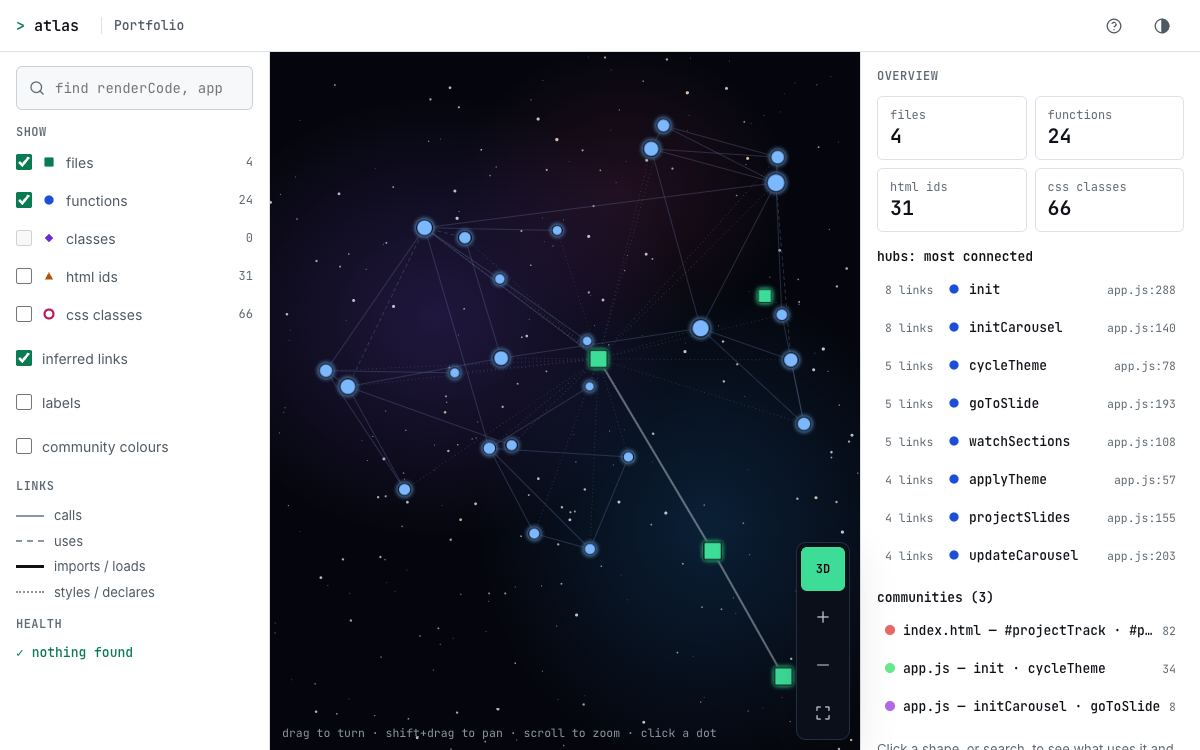
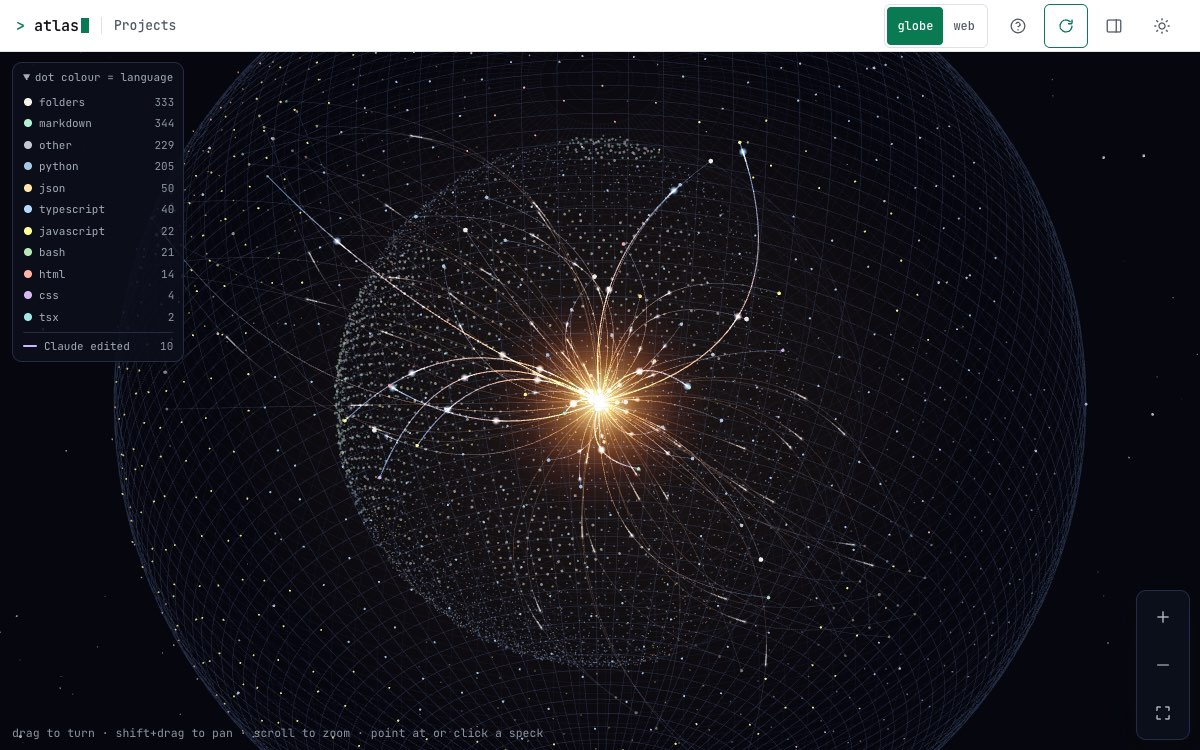
Projects: show today's Atlas in its screenshot
The Atlas card now shows the pastel dust globe with Claude's glowing
core and strands (made from public projects only), with a matching alt
text.

diff --git a/index.html b/index.html
@@ -350,7 +350,7 @@
                   src="assets/images/atlas.jpg"
                   width="1200"
                   height="750"
-                  alt="Atlas code map, an interactive graph of a project"
+                  alt="Atlas code map: a globe of a project's files and code, with Claude's glowing core"
                   loading="lazy"
                 />
                 <div class="project-head">

diff --git a/CHANGELOG.md b/CHANGELOG.md
@@ -4,6 +4,7 @@ Updates to this project, newest first. Older entries come from the Git history (
 
 ## 2026-11-14
 ### Changed
+- Projects: the Atlas screenshot now shows today's Atlas (the pastel dust globe with Claude's glowing core and strands), made from public projects only so no private names appear. (not pushed yet)
 - Projects: Next Camp is now **Tentorium**: new name, link (https://tentorium.vercel.app; the old address no longer opened), address line and a fresh About-page screenshot (`assets/images/tentorium.jpg`, replaces `next-camp.jpg`); the link preview image (`preview.jpg`) is remade to match. (1b55f02)
 
 ## 2026-11-12
